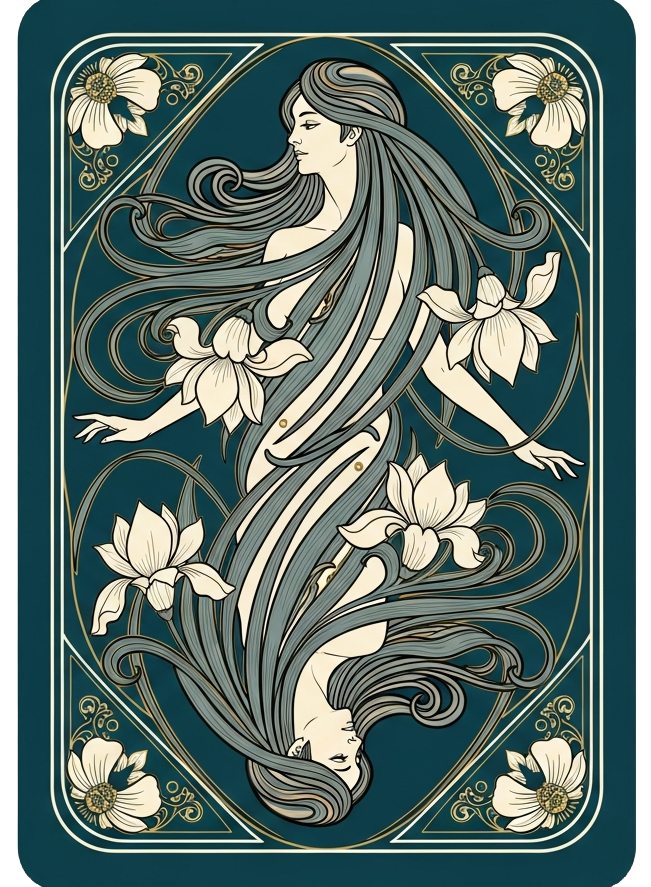
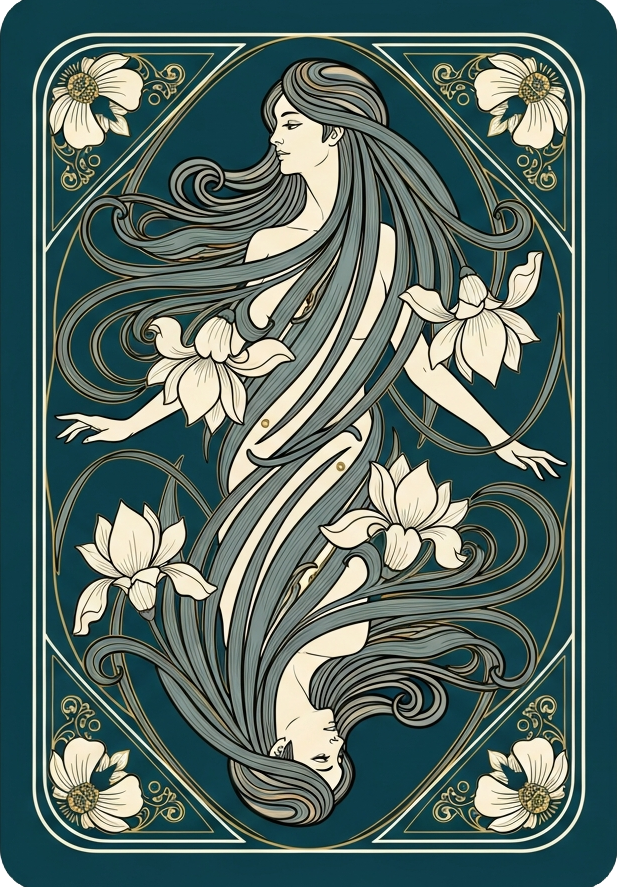
Using card back for "slice" of facedown cards in MixedStacks.

diff --git a/SolitaireUI/SolitaireUI/ViewModels/MainWindowViewModel.cs b/SolitaireUI/SolitaireUI/ViewModels/MainWindowViewModel.cs
@@ -1,6 +1,9 @@
+using Avalonia;
+using Avalonia.Media;
 using Avalonia.Media.Imaging;
 using Cards;
 using CommunityToolkit.Mvvm.ComponentModel;
+using System;
 using System.Reflection;
 
 // To create a new game a few things are needed:
@@ -28,6 +31,110 @@ public partial class MainWindowViewModel : ViewModelBase
     {
         EnsureImagesLoaded();
         return CardBackImage!;
+    }
+
+    static Bitmap? FaceDownOverlapBitmap;
+    static double FaceDownOverlapBitmapHeight = -1;
+    static double FaceDownOverlapBitmapWidth = -1;
+    static double FaceDownOverlapBitmapScaling = -1;
+
+    /// <summary>
+    /// Returns a bitmap containing the top slice of the card back image, <paramref name="height"/>
+    /// device-independent units high (as measured against a card drawn at <paramref name="cardWidth"/> x
+    /// <paramref name="cardHeight"/>). Used to draw the overlapping portions of face-down cards in a
+    /// <see cref="MixedStack"/> using the actual card back artwork instead of a placeholder color.
+    /// </summary>
+    /// <param name="renderScaling">
+    /// The current visual's render scaling (DPI factor). The backing bitmap is rendered at this
+    /// scale so it isn't upsampled/blurred when displayed on high-DPI screens.
+    /// </param>
+    static public Bitmap GetFaceDownOverlapBitmap(double height, double cardWidth, double cardHeight, double renderScaling)
+    {
+        EnsureImagesLoaded();
+
+        if (FaceDownOverlapBitmap == null
+            || FaceDownOverlapBitmapHeight != height
+            || FaceDownOverlapBitmapWidth != cardWidth
+            || FaceDownOverlapBitmapScaling != renderScaling)
+        {
+            var fullBack = CardBackImage!;
+            var sourceHeight = fullBack.Size.Height * (height / cardHeight);
+            var sourceRect = new Rect(0, 0, fullBack.Size.Width, sourceHeight);
+            var destRect = new Rect(0, 0, cardWidth, height);
+
+            // Render at the screen's actual scaling factor (not just 1 device pixel per DIP) so the
+            // slice isn't a low-resolution bitmap that then gets blurrily upscaled by the compositor.
+            var pixelSize = new PixelSize(
+                Math.Max(1, (int)Math.Ceiling(cardWidth * renderScaling)),
+                Math.Max(1, (int)Math.Ceiling(height * renderScaling)));
+            var dpi = new Vector(96 * renderScaling, 96 * renderScaling);
+
+            var renderTarget = new RenderTargetBitmap(pixelSize, dpi);
+            using (var context = renderTarget.CreateDrawingContext())
+            {
+                context.DrawImage(fullBack, sourceRect, destRect);
+            }
+
+            FaceDownOverlapBitmap = renderTarget;
+            FaceDownOverlapBitmapHeight = height;
+            FaceDownOverlapBitmapWidth = cardWidth;
+            FaceDownOverlapBitmapScaling = renderScaling;
+        }
+
+        return FaceDownOverlapBitmap;
+    }
+
+    static Bitmap? FaceDownBackingBitmap;
+    static double FaceDownBackingBitmapHeight = -1;
+    static double FaceDownBackingBitmapWidth = -1;
+    static double FaceDownBackingBitmapScaling = -1;
+
+    // Fraction of the card's height, measured from the top, that the rounded corner artwork can
+    // occupy. Cropping from at/after this point guarantees fully opaque pixels, since it's well
+    // past the top rounded corners.
+    private const double CornerSafeFraction = 0.3;
+
+    /// <summary>
+    /// Returns a bitmap the same size as <see cref="GetFaceDownOverlapBitmap"/> but cropped from
+    /// further down the card back image, past its rounded top corners, so it's guaranteed opaque.
+    /// Drawing this behind a non-topmost peek slice means its transparent rounded corners reveal
+    /// this same card-back artwork instead of the playing surface underneath. (Stretching the same
+    /// top crop used by <see cref="GetFaceDownOverlapBitmap"/> doesn't work because that crop's
+    /// corners remain transparent no matter how much it's stretched vertically.)
+    /// </summary>
+    static public Bitmap GetFaceDownBackingBitmap(double height, double cardWidth, double cardHeight, double renderScaling)
+    {
+        EnsureImagesLoaded();
+
+        if (FaceDownBackingBitmap == null
+            || FaceDownBackingBitmapHeight != height
+            || FaceDownBackingBitmapWidth != cardWidth
+            || FaceDownBackingBitmapScaling != renderScaling)
+        {
+            var fullBack = CardBackImage!;
+            var sourceHeight = fullBack.Size.Height * (height / cardHeight);
+            var sourceTop = fullBack.Size.Height * CornerSafeFraction;
+            var sourceRect = new Rect(0, sourceTop, fullBack.Size.Width, sourceHeight);
+            var destRect = new Rect(0, 0, cardWidth, height);
+
+            var pixelSize = new PixelSize(
+                Math.Max(1, (int)Math.Ceiling(cardWidth * renderScaling)),
+                Math.Max(1, (int)Math.Ceiling(height * renderScaling)));
+            var dpi = new Vector(96 * renderScaling, 96 * renderScaling);
+
+            var renderTarget = new RenderTargetBitmap(pixelSize, dpi);
+            using (var context = renderTarget.CreateDrawingContext())
+            {
+                context.DrawImage(fullBack, sourceRect, destRect);
+            }
+
+            FaceDownBackingBitmap = renderTarget;
+            FaceDownBackingBitmapHeight = height;
+            FaceDownBackingBitmapWidth = cardWidth;
+            FaceDownBackingBitmapScaling = renderScaling;
+        }
+
+        return FaceDownBackingBitmap;
     }
 
     static private void EnsureImagesLoaded()

diff --git a/SolitaireUI/SolitaireUI/Controls/StackControl.axaml.cs b/SolitaireUI/SolitaireUI/Controls/StackControl.axaml.cs
@@ -36,6 +36,8 @@ public class StackControl : Control
 
     private Stack? _previousStack;
 
+    private static double s_maxMixedStackOverlapDistance = 0.0;
+
     private bool IsHoveredDuringDrag
     {
         get
@@ -564,6 +566,22 @@ public class StackControl : Control
 
     private void RenderMixedStack(DrawingContext context, MixedStack mixedStack)
     {
+        // Draw each peek slightly taller than the spacing between peeks (~10% extra) so it overdraws
+        // down onto the top of the peek below it, covering that card's transparent rounded corners
+        // instead of letting the playing surface show through. Round to a whole pixel so the extra
+        // slice height doesn't introduce a fractional-pixel scale (which would blur/anti-alias it).
+        var peekRectHeight = Math.Max(FaceDownPeekHeight + 1, Math.Round(FaceDownPeekHeight * 1.1));
+        if (peekRectHeight > s_maxMixedStackOverlapDistance)
+        {
+            s_maxMixedStackOverlapDistance = peekRectHeight;
+        }
+
+        var renderScaling = TopLevel.GetTopLevel(this)?.RenderScaling ?? 1.0;
+        var faceDownOverlapBitmap = MainWindowViewModel.GetFaceDownOverlapBitmap(
+            s_maxMixedStackOverlapDistance, CardWidth, CardHeight, renderScaling);
+        var faceDownBackingBitmap = MainWindowViewModel.GetFaceDownBackingBitmap(
+            s_maxMixedStackOverlapDistance, CardWidth, CardHeight, renderScaling);
+
         var faceDownCount = mixedStack.Count - mixedStack.CardsUp;
         var currentY = 0.0;
 
@@ -574,9 +592,16 @@ public class StackControl : Control
             {
                 for (int i = 0; i < faceDownCount; i++)
                 {
-                    var rect = new Rect(0, currentY, CardWidth, FaceDownPeekHeight + 1);
-                    var cornerRadius = 3.0;
-                    context.DrawRectangle(Brushes.DodgerBlue, new Pen(Brushes.Black, 1.0), rect, cornerRadius);
+                    var rect = new Rect(0, currentY, CardWidth, peekRectHeight);
+                    // Every slice except the topmost one needs an opaque backing behind it so its
+                    // transparent rounded corners reveal matching card-back artwork instead of the
+                    // playing surface beneath. The topmost slice (i == 0) has nothing above it, so
+                    // it should legitimately show the playing surface through its corners.
+                    if (i > 0)
+                    {
+                        context.DrawImage(faceDownBackingBitmap, rect);
+                    }
+                    context.DrawImage(faceDownOverlapBitmap, rect);
                     currentY += FaceDownPeekHeight;
                 }
             }
@@ -587,14 +612,17 @@ public class StackControl : Control
             // then draw the topmost face-down card full-size so the stack still shows a card.
             for (int i = 0; i < faceDownCount - 1; i++)
             {
-                var rect = new Rect(0, currentY, CardWidth, FaceDownPeekHeight + 1);
-                var cornerRadius = 3.0;
-                context.DrawRectangle(Brushes.DodgerBlue, new Pen(Brushes.Black, 1.0), rect, cornerRadius);
+                var rect = new Rect(0, currentY, CardWidth, peekRectHeight);
+                if (i > 0)
+                {
+                    context.DrawImage(faceDownBackingBitmap, rect);
+                }
+                context.DrawImage(faceDownOverlapBitmap, rect);
                 currentY += FaceDownPeekHeight;
             }
 
             var topRect = new Rect(0, currentY, CardWidth, CardHeight);
-            context.DrawRectangle(Brushes.DodgerBlue, new Pen(Brushes.Black, 1.0), topRect, 5.0);
+            context.DrawImage(MainWindowViewModel.GetCardBackImage(), topRect);
         }
 
         // Draw face-up cards overlapping
